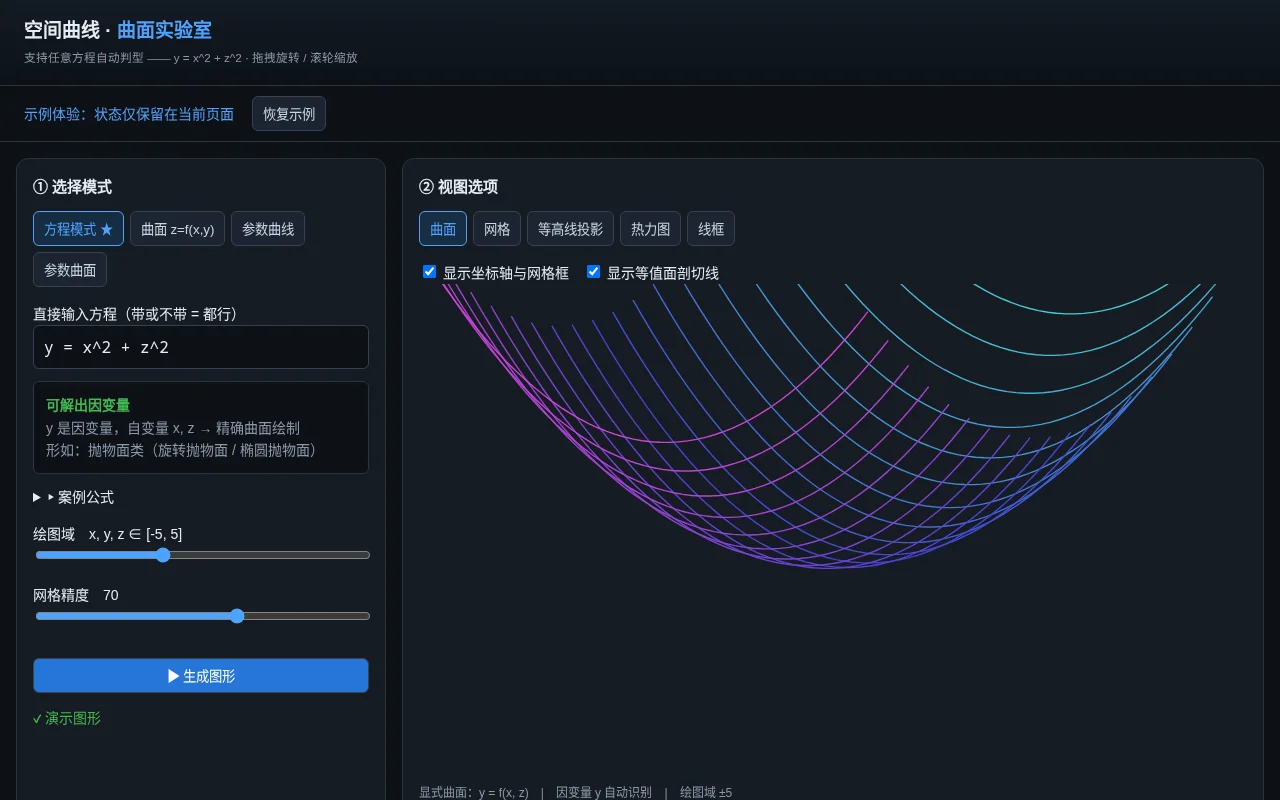
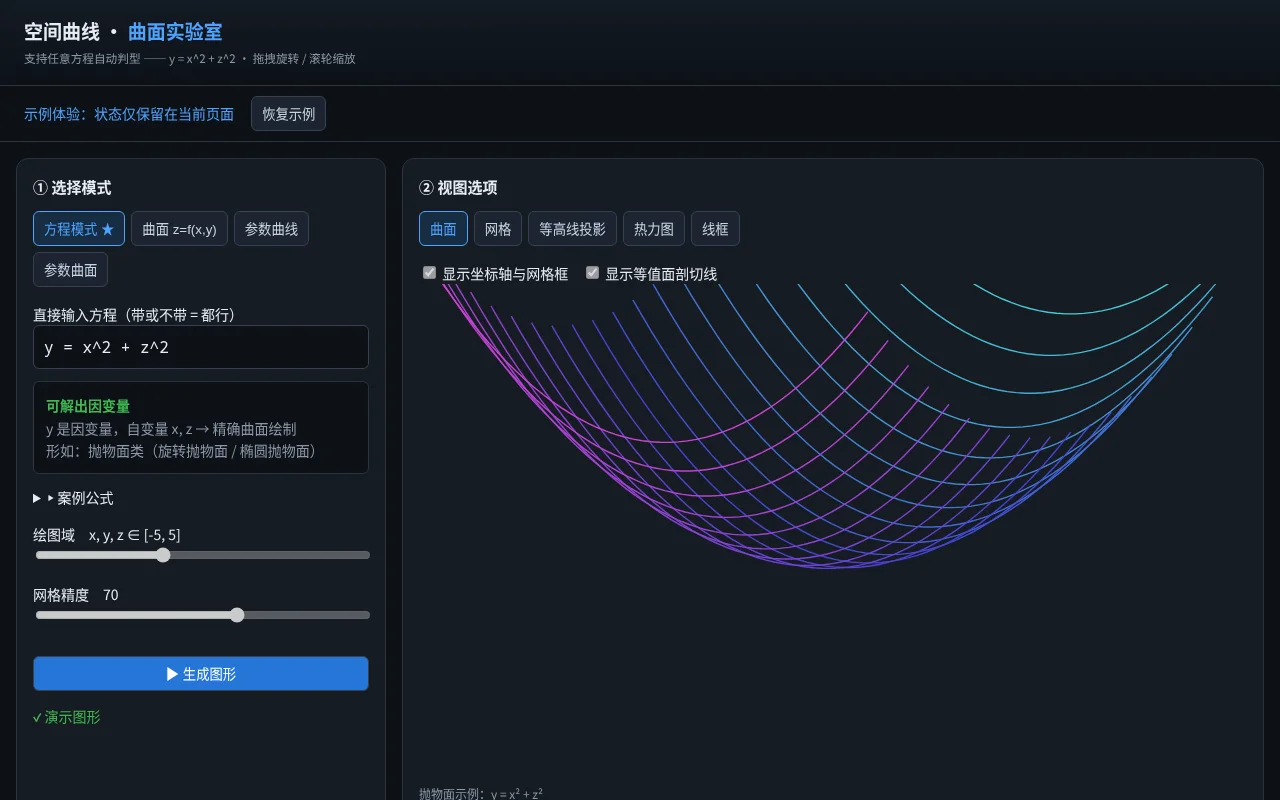
Clarify interactive preview scope

diff --git a/ef8b708fe6df6f95d938b98b/showcase/preview.html b/ef8b708fe6df6f95d938b98b/showcase/preview.html
@@ -1,5 +1,5 @@
 <!doctype html><html lang="zh-CN"><head><meta charset="utf-8"><meta name="viewport" content="width=device-width,initial-scale=1"><title>空间曲线 · 曲面实验室</title><style>
 *{box-sizing:border-box}body{margin:0;background:#0d1117;color:#e6edf3;font:14px/1.6 "Microsoft YaHei",sans-serif}header{padding:16px 24px;background:linear-gradient(#131a24,#0d1117);border-bottom:1px solid #2a3441}h1{font-size:19px;margin:0}h1 span{color:#4da3ff}small{color:#8b98a9}nav{padding:10px 24px;color:#4da3ff;border-bottom:1px solid #2a3441}.wrap{display:grid;grid-template-columns:370px 1fr;gap:16px;padding:16px}.panel{background:#161b22;border:1px solid #2a3441;border-radius:12px;padding:16px}h2{font-size:15px;margin:0 0 12px}.tabs{display:flex;gap:6px;flex-wrap:wrap;margin-bottom:16px}button{background:#1c2330;color:#c8d5e3;border:1px solid #344353;border-radius:6px;padding:7px 10px;cursor:pointer}button.on{color:#4da3ff;border-color:#4da3ff;background:#172c43}input[type=text]{background:#0d1117;border:1px solid #344353;color:#e6edf3;padding:10px;width:100%;border-radius:6px;font:16px monospace}.box{background:#0d1117;border:1px solid #2a3441;padding:12px;margin:12px 0;border-radius:6px;color:#8b98a9}.box strong{color:#3fb950}input[type=range]{width:100%;accent-color:#4da3ff}.run{background:#2675d8;color:white;width:100%;margin-top:14px}canvas{display:block;width:100%;height:500px;background:#161b22}.info{color:#8b98a9;font-size:12px}@media(max-width:1020px){.wrap{grid-template-columns:1fr}}@media(max-width:600px){canvas{height:340px}}
-</style></head><body><header><h1>空间曲线 · <span>曲面实验室</span></h1><small>支持任意方程自动判型 —— y = x^2 + z^2 · 拖拽旋转 / 滚轮缩放</small></header><nav>示例体验：状态仅保留在当前页面　 <button id="reset">恢复示例</button></nav><div class="wrap"><div class="panel"><h2>① 选择模式</h2><div class="tabs" id="modes"><button class="on">方程模式 ★</button><button disabled>曲面 z=f(x,y)</button><button disabled>参数曲线</button><button disabled>参数曲面</button></div><label>直接输入方程（带或不带 = 都行）</label><input id="equation" type="text" value="y = x^2 + z^2"><div class="box"><strong>可解出因变量</strong><br>y 是因变量，自变量 x, z → 精确曲面绘制<br>形如：抛物面类（旋转抛物面 / 椭圆抛物面）</div><details><summary>▸ 案例公式</summary><p><button data-eq="y = x^2 + z^2">旋转抛物面</button> <button data-eq="z = x^2 - y^2">马鞍面</button> <button data-eq="x^2 + y^2 + z^2 = 9">球面</button></p></details><p>绘图域　x, y, z ∈ [-5, 5]<input type="range" min="2" max="10" value="5"></p><p>网格精度　70<input type="range" min="24" max="100" value="70"></p><button class="run" id="run">▶ 生成图形</button><p style="color:#3fb950">✔ 演示图形</p></div><div class="panel"><h2>② 视图选项</h2><div class="tabs" id="views"><button class="on">曲面</button><button disabled>网格</button><button disabled>等高线投影</button><button disabled>热力图</button><button disabled>线框</button></div><label><input type="checkbox" checked> 显示坐标轴与网格框</label>　<label><input type="checkbox" checked> 显示等值面剖切线</label><canvas id="plot"></canvas><div class="info">显式曲面：y = f(x, z)　|　因变量 y 自动识别　|　绘图域 ±5<br>示例仅演示抛物面和马鞍面；安装后可使用任意公式和其他绘图模式。</div></div></div><script>
-document.querySelector('#reset').onclick=()=>{document.querySelector('#equation').value='y = x^2 + z^2';document.querySelectorAll('input[type=range]').forEach((x,i)=>x.value=i?70:5);document.querySelectorAll('input[type=checkbox]').forEach(x=>x.checked=true);document.querySelector('details').open=false;document.querySelectorAll('.tabs').forEach(t=>t.querySelectorAll('button').forEach((b,i)=>b.classList.toggle('on',i===0)));angle=.7;mode=0;draw()};const c=document.querySelector('canvas'),ctx=c.getContext('2d');let angle=.7,mode=0;function draw(){let w=c.width=c.clientWidth*devicePixelRatio,h=c.height=c.clientHeight*devicePixelRatio;ctx.clearRect(0,0,w,h);ctx.save();ctx.translate(w/2,h*.55);const sx=w*.095,sy=h*.105;function p(x,z){let a=x*Math.cos(angle)-z*Math.sin(angle),b=x*Math.sin(angle)+z*Math.cos(angle),y=mode===1?(x*x-z*z)*.22:(x*x+z*z)*.22;return [a*sx,(b*.4-y)*sy]}for(let j=-4;j<=4;j+=.4){ctx.beginPath();for(let i=-4;i<=4;i+=.15){let [x,y]=p(i,j);i===-4?ctx.moveTo(x,y):ctx.lineTo(x,y)}ctx.strokeStyle=`hsl(${185+(j+4)*14} 65% 55%)`;ctx.lineWidth=1.4*devicePixelRatio;ctx.stroke()}ctx.restore()}draw();onresize=draw;c.onpointerdown=e=>{c.setPointerCapture(e.pointerId);let x=e.clientX;c.onpointermove=e=>{angle+=(e.clientX-x)*.01;x=e.clientX;draw()}};c.onpointerup=()=>c.onpointermove=null;document.querySelectorAll('[data-eq]').forEach(b=>b.onclick=()=>{document.querySelector('#equation').value=b.dataset.eq;mode=b.dataset.eq.includes(' - ')?1:0;draw()});document.querySelector('#run').onclick=()=>{mode=document.querySelector('#equation').value.includes(' - ')?1:0;draw()};document.querySelectorAll('.tabs').forEach(t=>t.onclick=e=>{if(e.target.tagName==='BUTTON'){t.querySelectorAll('button').forEach(b=>b.classList.remove('on'));e.target.classList.add('on');draw()}});
+</style></head><body><header><h1>空间曲线 · <span>曲面实验室</span></h1><small>支持任意方程自动判型 —— y = x^2 + z^2 · 拖拽旋转 / 滚轮缩放</small></header><nav>示例体验：状态仅保留在当前页面　 <button id="reset">恢复示例</button></nav><div class="wrap"><div class="panel"><h2>① 选择模式</h2><div class="tabs" id="modes"><button class="on">方程模式 ★</button><button disabled>曲面 z=f(x,y)</button><button disabled>参数曲线</button><button disabled>参数曲面</button></div><label>直接输入方程（带或不带 = 都行）</label><input id="equation" type="text" value="y = x^2 + z^2"><div class="box" id="classification"><strong>可解出因变量</strong><br>y 是因变量，自变量 x, z → 精确曲面绘制<br>形如：抛物面类（旋转抛物面 / 椭圆抛物面）</div><details><summary>▸ 案例公式</summary><p><button data-eq="y = x^2 + z^2">旋转抛物面</button> <button data-eq="z = x^2 - y^2">马鞍面</button></p></details><p>绘图域　x, y, z ∈ [-5, 5]<input type="range" min="2" max="10" value="5" disabled></p><p>网格精度　70<input type="range" min="24" max="100" value="70" disabled></p><button class="run" id="run">▶ 生成图形</button><p id="demo-status" style="color:#3fb950">✔ 演示图形</p></div><div class="panel"><h2>② 视图选项</h2><div class="tabs" id="views"><button class="on">曲面</button><button disabled>网格</button><button disabled>等高线投影</button><button disabled>热力图</button><button disabled>线框</button></div><label><input type="checkbox" checked disabled> 显示坐标轴与网格框</label>　<label><input type="checkbox" checked disabled> 显示等值面剖切线</label><canvas id="plot"></canvas><div class="info">显式曲面：y = f(x, z)　|　因变量 y 自动识别　|　绘图域 ±5<br>示例仅演示抛物面和马鞍面，灰色控件需安装后使用。完整应用支持任意公式和其他绘图模式。</div></div></div><script>
+document.querySelector('#reset').onclick=()=>{document.querySelector('#equation').value='y = x^2 + z^2';document.querySelectorAll('input[type=range]').forEach((x,i)=>x.value=i?70:5);document.querySelectorAll('input[type=checkbox]').forEach(x=>x.checked=true);document.querySelector('details').open=false;document.querySelector('#demo-status').textContent='✔ 演示图形';document.querySelectorAll('.tabs').forEach(t=>t.querySelectorAll('button').forEach((b,i)=>b.classList.toggle('on',i===0)));angle=.7;mode=0;draw()};const c=document.querySelector('canvas'),ctx=c.getContext('2d');let angle=.7,mode=0;function draw(){document.querySelector('.info').innerHTML=(mode===1?'马鞍面示例：z = x² − y²':'抛物面示例：y = x² + z²')+'<br>示例仅演示抛物面和马鞍面，灰色控件需安装后使用。完整应用支持任意公式和其他绘图模式。';document.querySelector('#classification').innerHTML=mode===1?'<strong>马鞍面示例</strong><br>z 是因变量，自变量 x, y':'<strong>可解出因变量</strong><br>y 是因变量，自变量 x, z → 精确曲面绘制<br>形如：抛物面类（旋转抛物面 / 椭圆抛物面）';let w=c.width=c.clientWidth*devicePixelRatio,h=c.height=c.clientHeight*devicePixelRatio;ctx.clearRect(0,0,w,h);ctx.save();ctx.translate(w/2,h*.55);const sx=w*.095,sy=h*.105;function p(x,z){let a=x*Math.cos(angle)-z*Math.sin(angle),b=x*Math.sin(angle)+z*Math.cos(angle),y=mode===1?(x*x-z*z)*.22:(x*x+z*z)*.22;return [a*sx,(b*.4-y)*sy]}for(let j=-4;j<=4;j+=.4){ctx.beginPath();for(let i=-4;i<=4;i+=.15){let [x,y]=p(i,j);i===-4?ctx.moveTo(x,y):ctx.lineTo(x,y)}ctx.strokeStyle=`hsl(${185+(j+4)*14} 65% 55%)`;ctx.lineWidth=1.4*devicePixelRatio;ctx.stroke()}ctx.restore()}draw();onresize=draw;c.onpointerdown=e=>{c.setPointerCapture(e.pointerId);let x=e.clientX;c.onpointermove=e=>{angle+=(e.clientX-x)*.01;x=e.clientX;draw()}};c.onpointerup=()=>c.onpointermove=null;document.querySelectorAll('[data-eq]').forEach(b=>b.onclick=()=>{document.querySelector('#equation').value=b.dataset.eq;mode=b.dataset.eq.includes(' - ')?1:0;draw()});document.querySelector('#run').onclick=()=>{const v=document.querySelector('#equation').value.replace(/\s/g,'');if(v==='y=x^2+z^2')mode=0;else if(v==='z=x^2-y^2')mode=1;else{document.querySelector('#demo-status').textContent='示例仅支持上面两条案例公式；完整公式绘图请安装应用。';return}document.querySelector('#demo-status').textContent='✔ 演示图形';draw()};document.querySelectorAll('.tabs').forEach(t=>t.onclick=e=>{if(e.target.tagName==='BUTTON'){t.querySelectorAll('button').forEach(b=>b.classList.remove('on'));e.target.classList.add('on');draw()}});
 </script></body></html>
